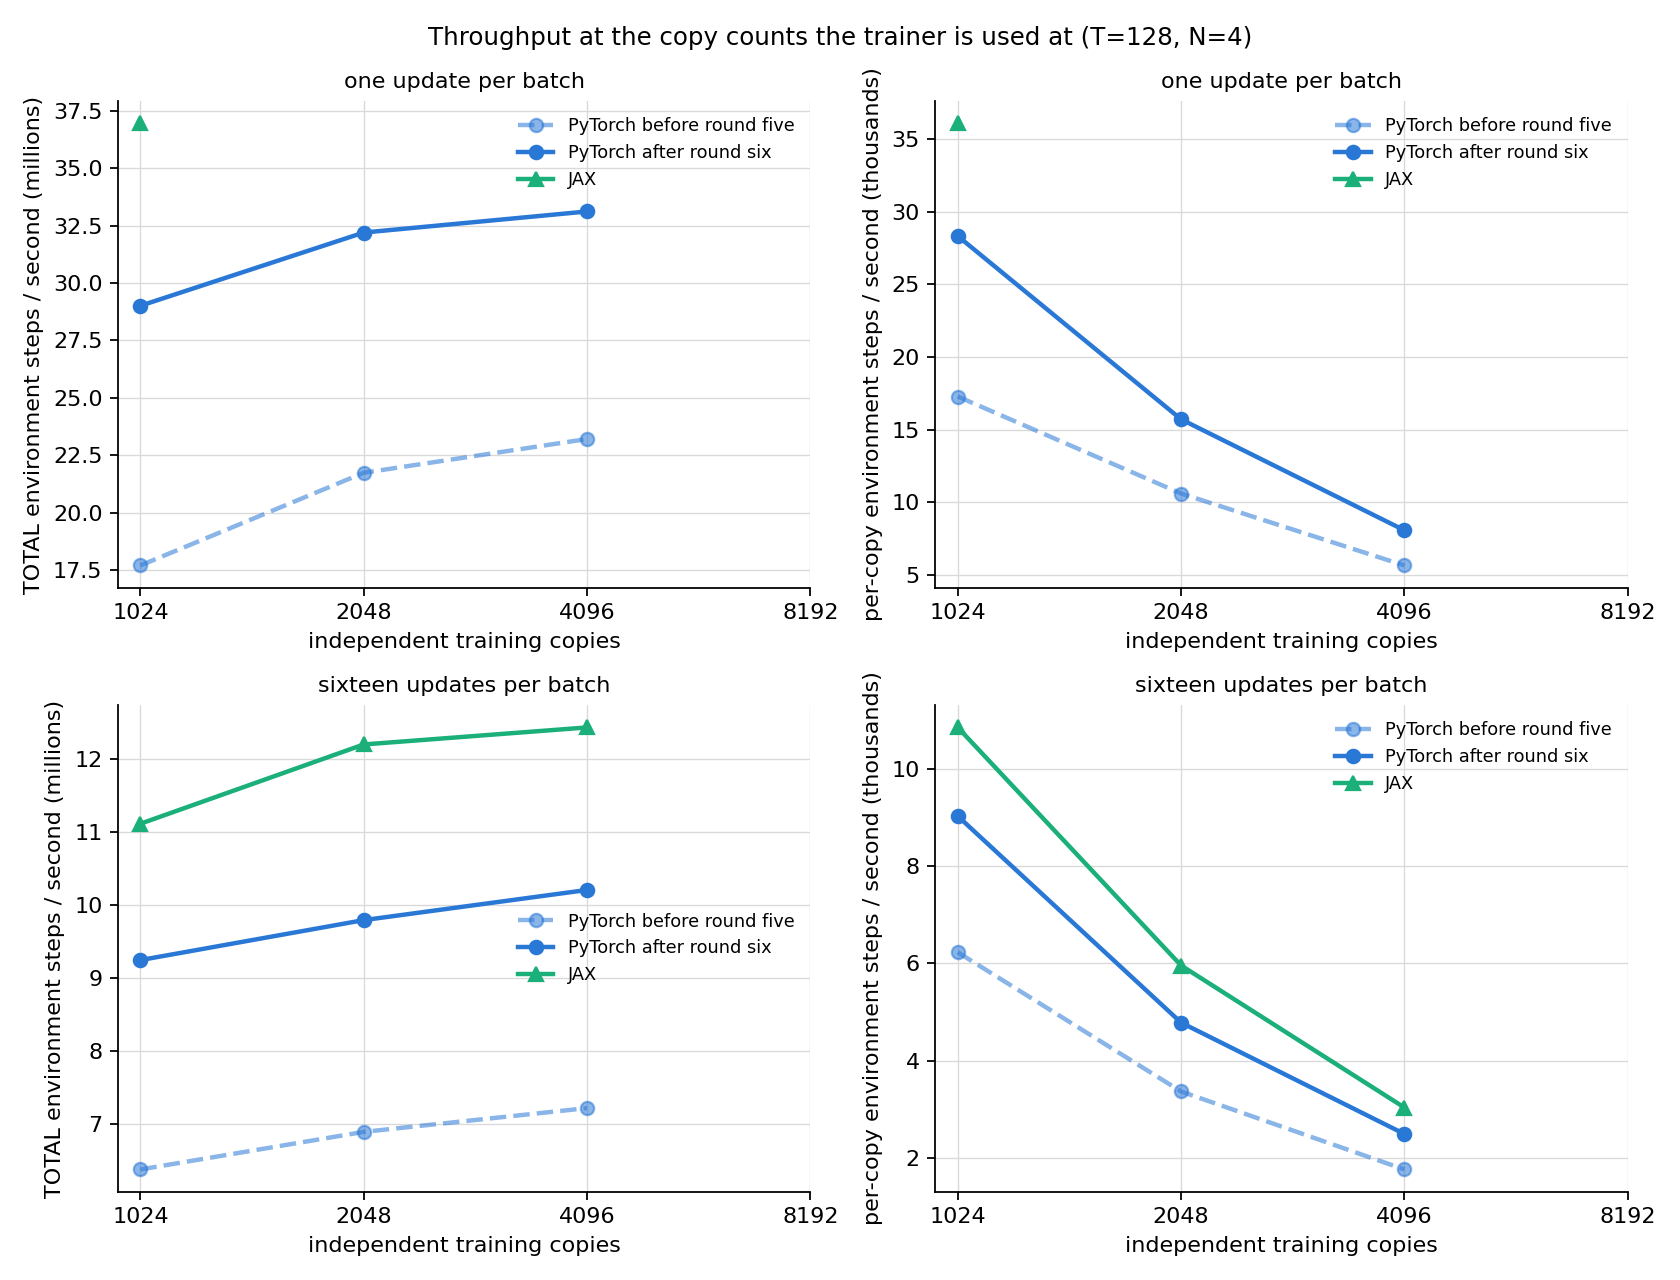
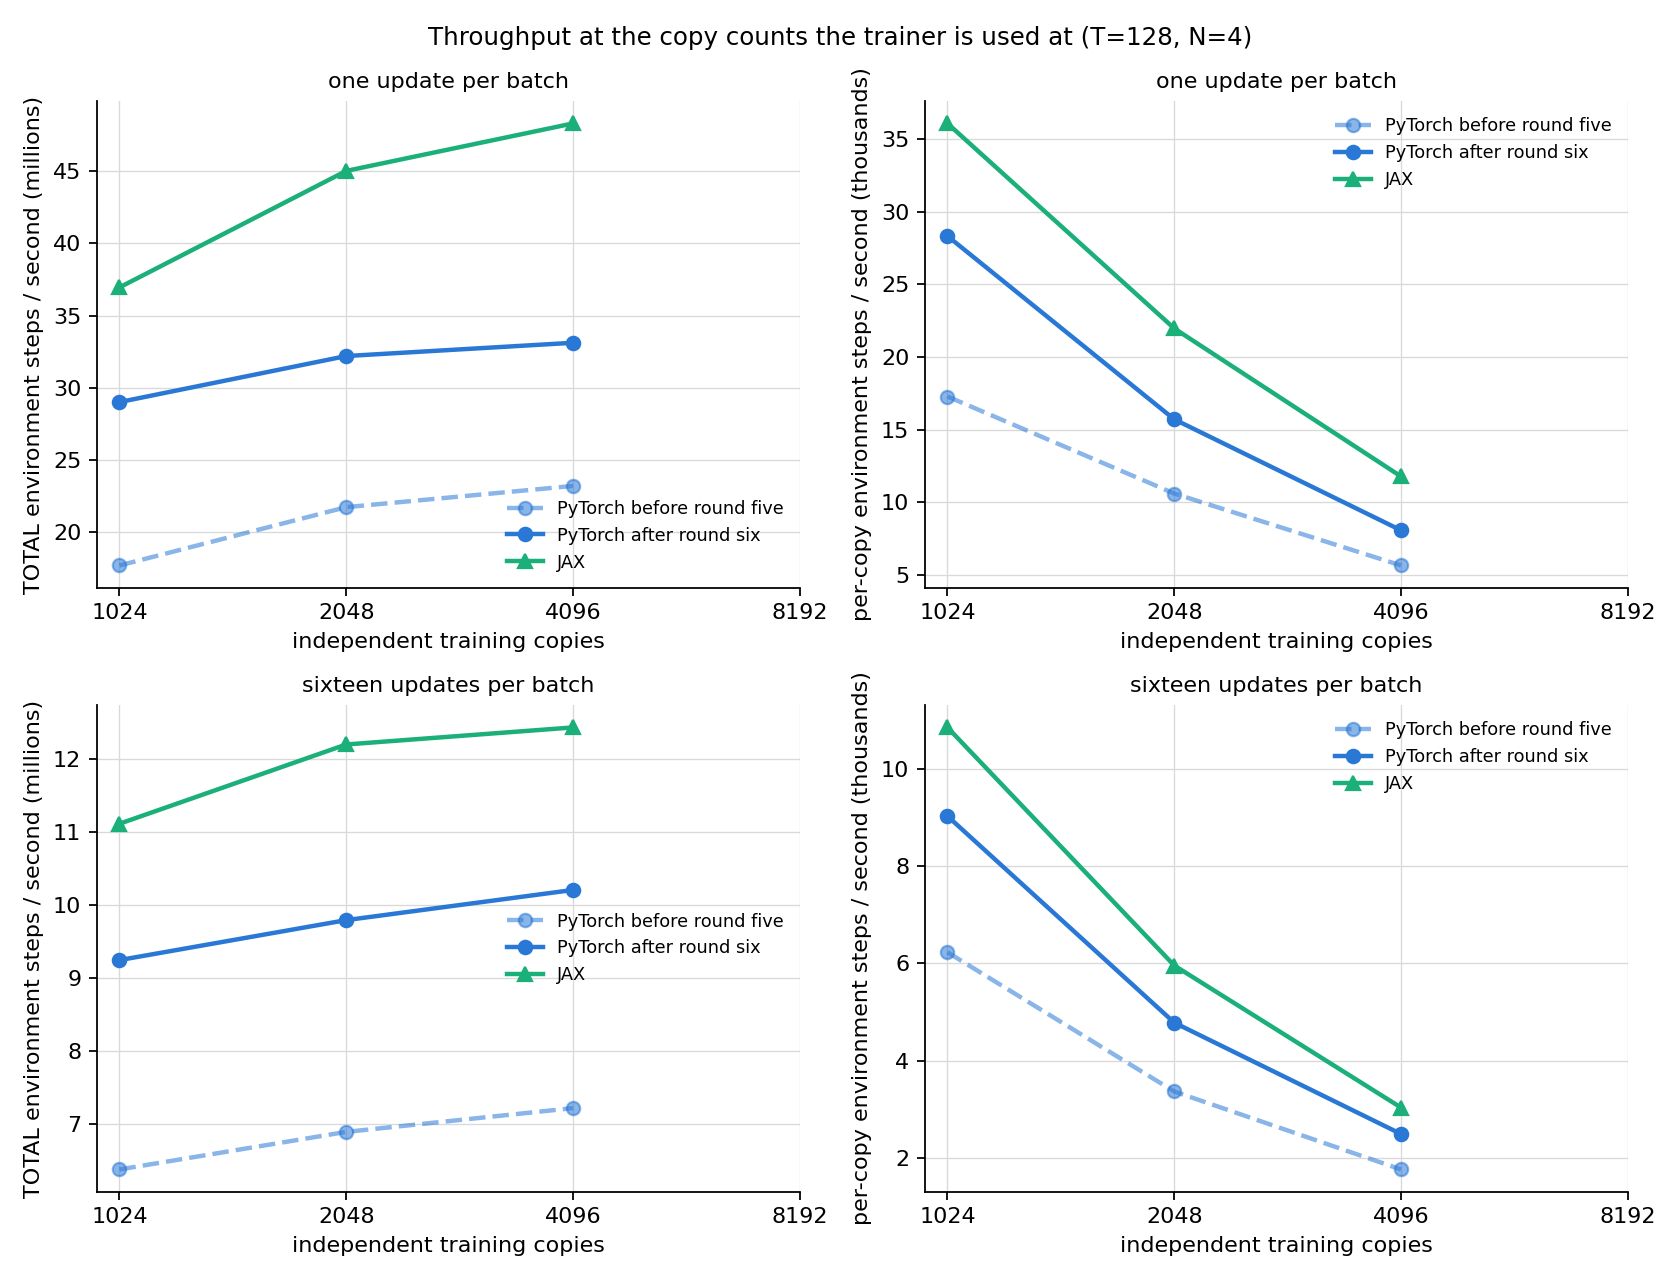
report: the head-to-head reads the per-style JAX runs, whose peak memory is not another style's

diff --git a/09_parallelization/report/2026-08-15-pointmaze-gpu-parallelization/report.md b/09_parallelization/report/2026-08-15-pointmaze-gpu-parallelization/report.md
@@ -45,7 +45,7 @@ the earlier sections' conclusions do not all carry over.
 | <span class="unread">[End-to-end training on a dedicated processor node](#end-to-end-training-on-a-dedicated-processor-node)</span> | 2026-08-15 21:17 PT | 2026-08-15 21:17 PT | unread |
 | <span class="unread">[The best setup on each platform, at 4,096 copies or fewer](#the-best-setup-on-each-platform-at-4096-copies-or-fewer)</span> | 2026-08-15 21:17 PT | 2026-08-15 21:17 PT | unread |
 | <span class="unread">[A processor with fewer, faster cores against the 224-thread node](#a-processor-with-fewer-faster-cores-against-the-224-thread-node)</span> | 2026-08-15 21:17 PT | 2026-08-15 21:17 PT | unread |
-| <span class="unread">[Training a thousand to four thousand copies at once](#training-a-thousand-to-four-thousand-copies-at-once)</span> | 2026-08-15 21:17 PT | 2026-08-15 21:55 PT | unread |
+| <span class="unread">[Training a thousand to four thousand copies at once](#training-a-thousand-to-four-thousand-copies-at-once)</span> | 2026-08-15 21:17 PT | 2026-08-15 22:01 PT | unread |
 
 *Times are when a section's text first appeared in this document and when it last changed, taken from the document's version history. A section whose numbers were re-measured shows a later change time. All times are Pacific (PT); the machines that produced them run on Eastern Time and the values are converted for display.*
 
@@ -961,6 +961,8 @@ that distinction, and one change kept in an earlier round on the strength of 8-t
 turned out to be a loss at 1,024 and above. Every change below is therefore measured at both ends
 of the range before it is kept.
 
+**The two answers in one line.** At 4,096 copies with one update per batch, the PyTorch trainer takes 90 milliseconds per iteration as these two rounds found it and 63 after their changes, against 43 for the JAX trainer. The distance is not made of any one slow program — each of PyTorch's runs at 72 to 100 percent of the rate a plain copy of memory reaches — but of how many intermediate results have to be written to memory and read back between them.
+
 ### Where an iteration's time goes as the copy count grows
 
 | phase | 128 copies | 1,024 copies | 4,096 copies |
@@ -997,9 +999,11 @@ was changing while it was measured, and those figures are superseded here.
 | PyTorch after round six | 1024 | 18.1 | <u>29.01</u> | 28.3 | 0.010 | 3.8 |
 | JAX | 1024 | 14.2 | **36.95** | 36.1 | 0.008 | 3.4 |
 | PyTorch before round five | 2048 | 48.2 | 21.74 | 10.6 | 0.026 | 7.5 |
-| PyTorch after round six | 2048 | 32.6 | **32.20** | 15.7 | 0.018 | 7.5 |
+| PyTorch after round six | 2048 | 32.6 | <u>32.20</u> | 15.7 | 0.018 | 7.5 |
+| JAX | 2048 | 23.3 | **45.01** | 22.0 | 0.013 | 6.8 |
 | PyTorch before round five | 4096 | 90.4 | 23.21 | 5.7 | 0.049 | 14.8 |
-| PyTorch after round six | 4096 | 63.3 | **33.11** | 8.1 | 0.034 | 14.8 |
+| PyTorch after round six | 4096 | 63.3 | <u>33.11</u> | 8.1 | 0.034 | 14.8 |
+| JAX | 4096 | 43.4 | **48.29** | 11.8 | 0.024 | 13.4 |
 
 **Sixteen updates per batch.**
 
@@ -1443,6 +1447,8 @@ rather than attempted at the end of a round.
 | update convention | copies | PyTorch | JAX | ratio |
 |---|---|---|---|---|
 | one update per batch | 1024 | 18.1 ms | 14.2 ms | 1.27 |
+| one update per batch | 2048 | 32.6 ms | 23.3 ms | 1.40 |
+| one update per batch | 4096 | 63.3 ms | 43.4 ms | 1.46 |
 | sixteen updates per batch | 1024 | 56.7 ms | 47.2 ms | 1.20 |
 | sixteen updates per batch | 2048 | 107.1 ms | 86.0 ms | 1.25 |
 | sixteen updates per batch | 4096 | 205.5 ms | 168.7 ms | 1.22 |
